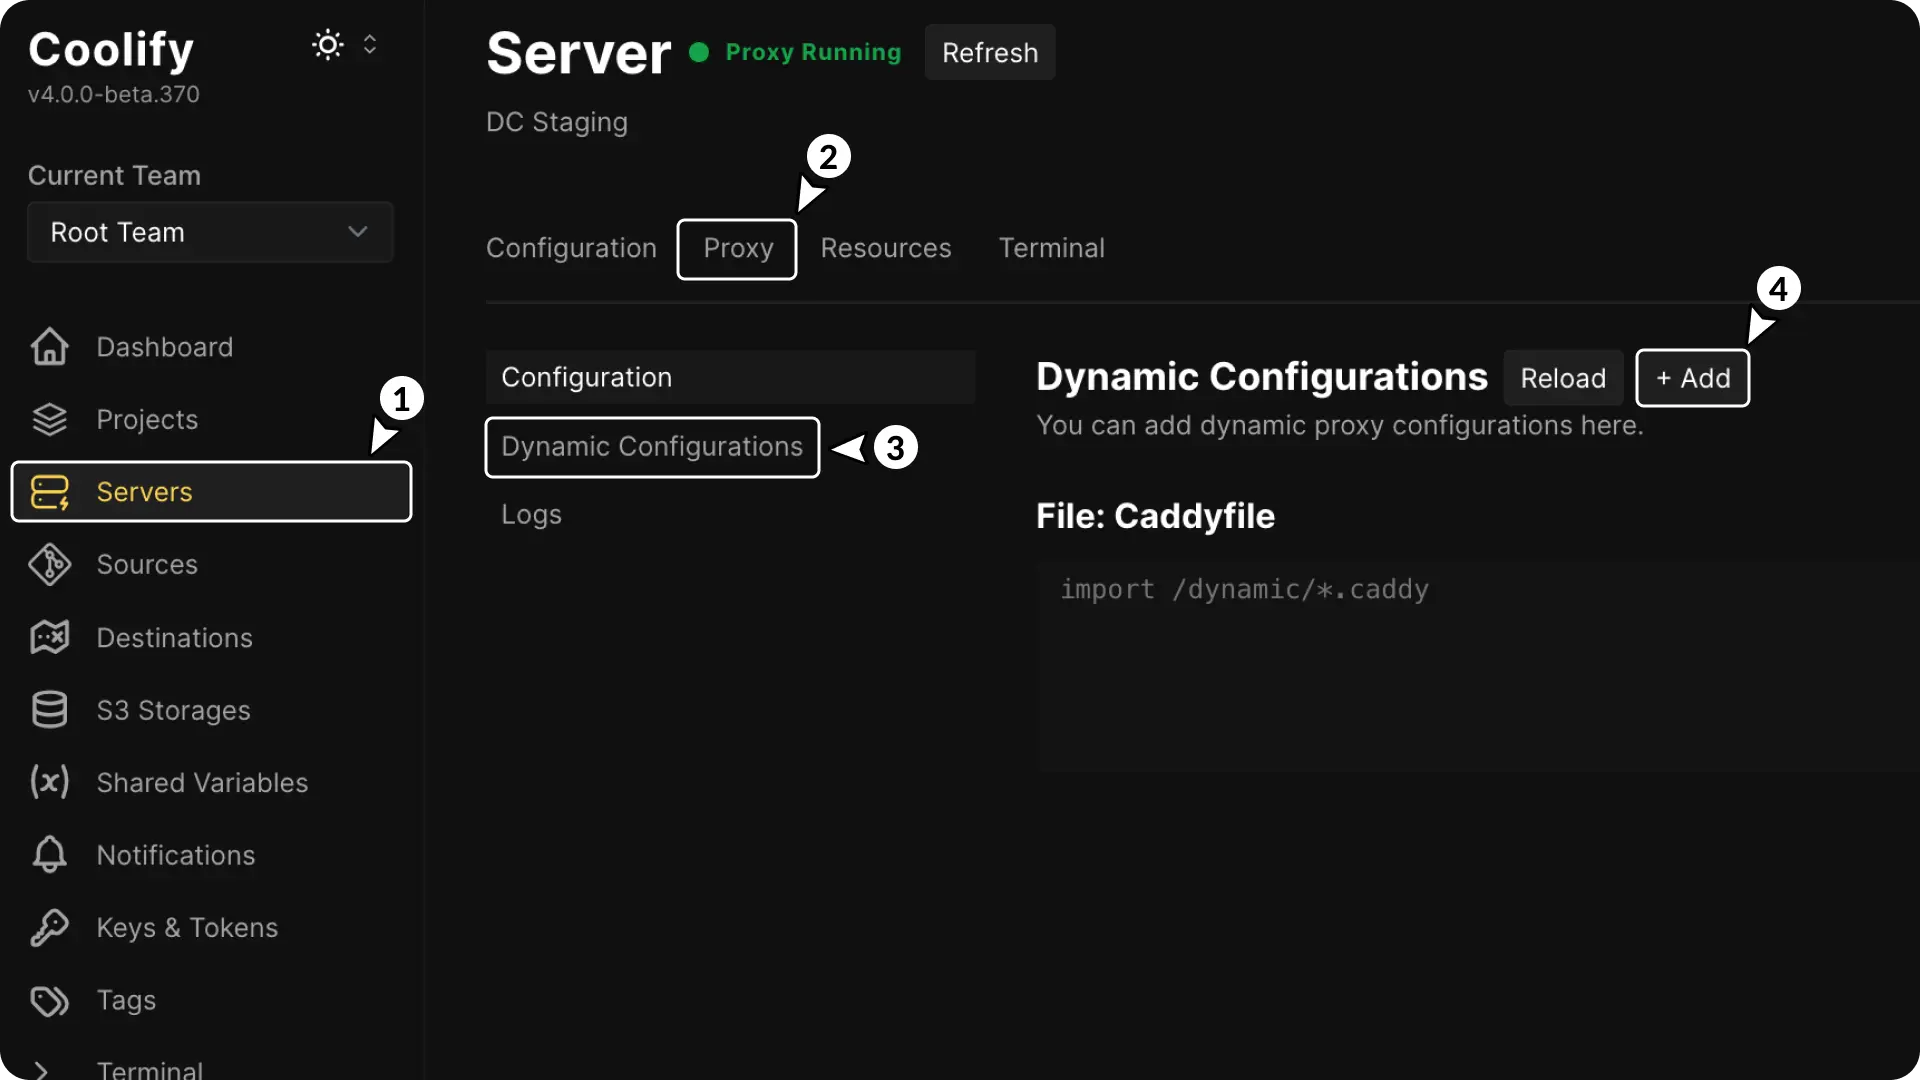
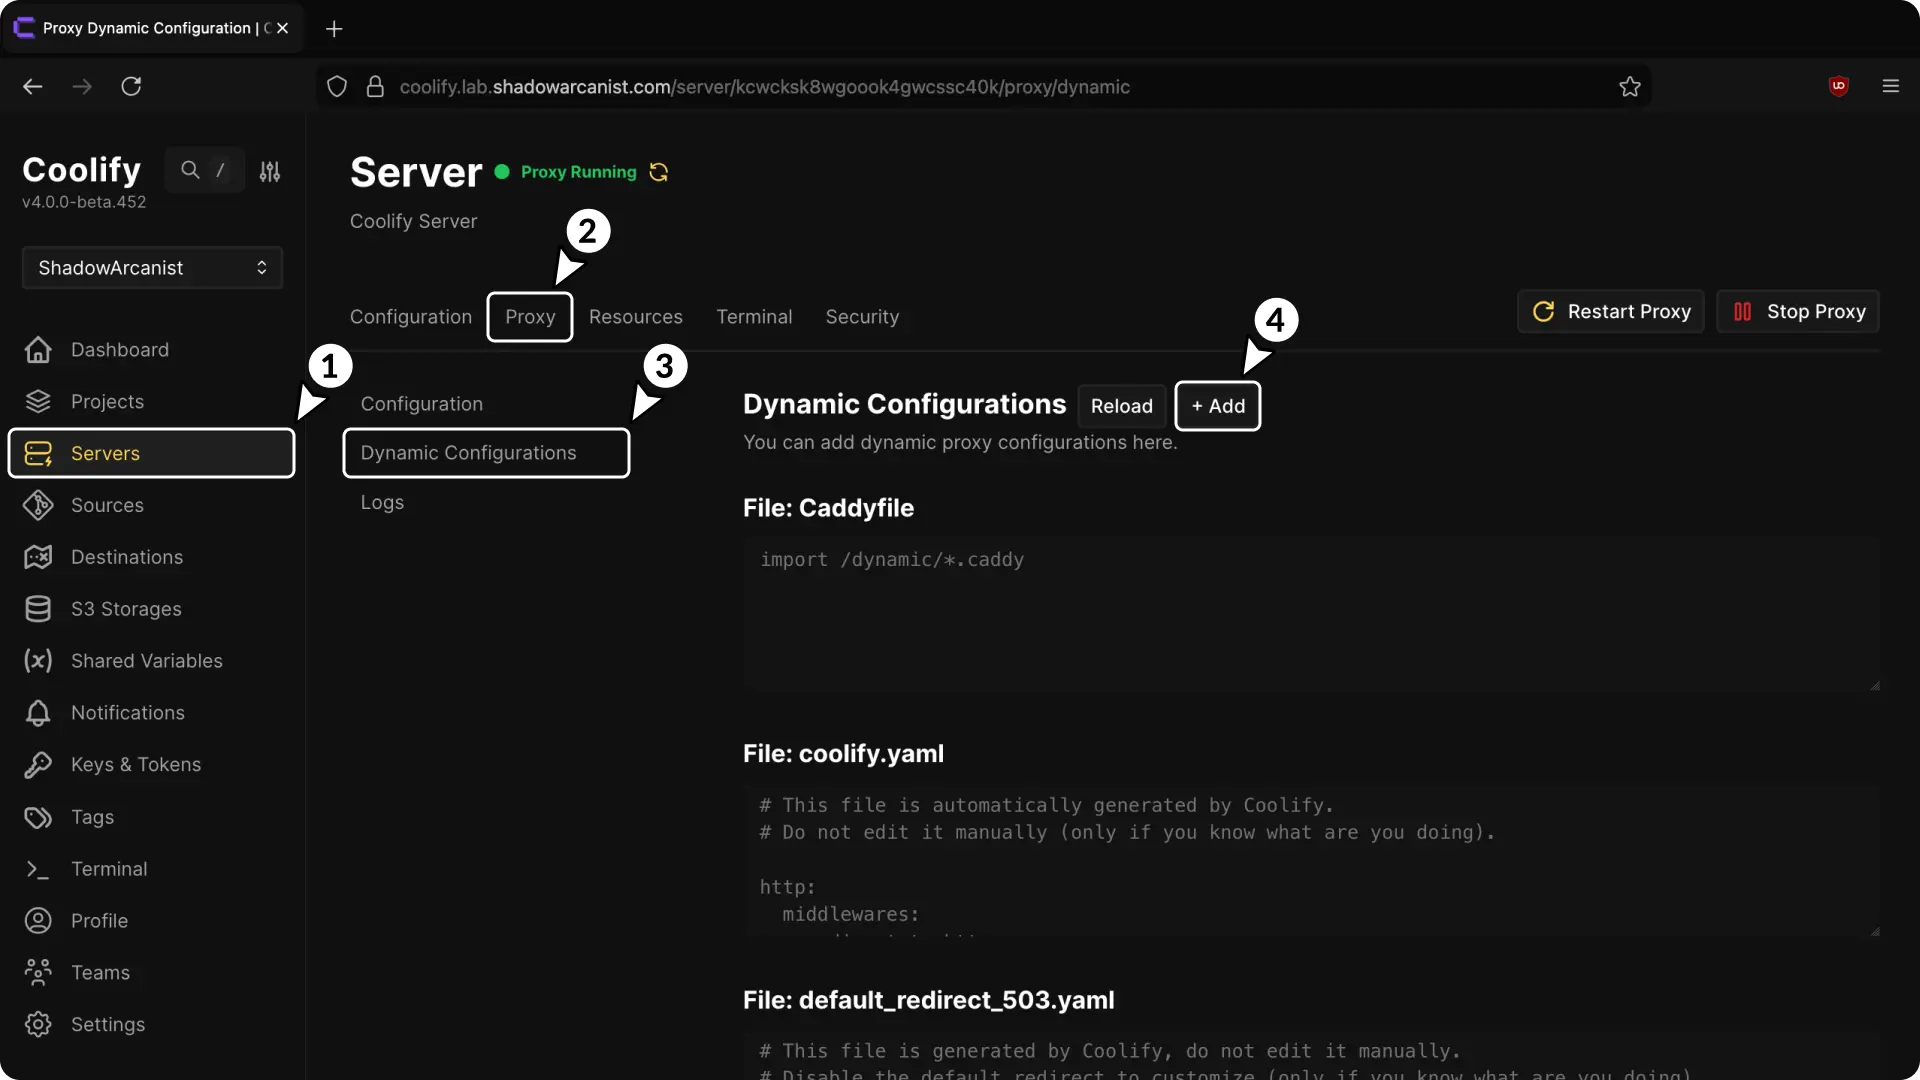
Added caddy setup guide for cloudflare ddos protection guide

diff --git a/docs/integrations/cloudflare/ddos-protection.md b/docs/integrations/cloudflare/ddos-protection.md
@@ -95,13 +95,12 @@ Once logged in, navigate to the Coolify proxy directory:
 $ cd /data/coolify/proxy
 ```
 
-Check if you have a **certs** folder:
-```sh
-$ ls
-> acme.json  docker-compose.yml  dynamic
-```
+Adding certificates slightly varies for Caddy and Traefik proxy so choose the correct one from the below section
 
-If there’s no **certs** folder, create it:
+:::tabs
+
+== Traefik
+Create the `certs` directory:
 ```sh
 $ mkdir certs
 ```
@@ -139,6 +138,48 @@ Do the same for the **shadowarcanist.key** file and paste the private key:
 $ nano shadowarcanist.key 
 ```
 Save and exit.
+
+== Caddy
+Create the `caddy/data/certs` directory:
+```sh
+$ mkdir -p caddy/data/certs
+```
+
+Verify it was created:
+```sh
+$ ls caddy/data
+> certs
+```
+
+Now, navigate into the **certs** directory:
+```sh
+$ cd caddy/data/certs
+```
+
+Create two new files for the certificate and private key:
+```sh
+$ touch shadowarcanist.cert shadowarcanist.key
+```
+
+Verify the files were created:
+```sh
+$ ls
+> shadowarcanist.cert shadowarcanist.key
+```
+
+Open the **shadowarcanist.cert** file and paste the certificate from the Cloudflare dashboard:
+```sh
+$ nano shadowarcanist.cert 
+```
+Save and exit after pasting the certificate.
+
+Do the same for the **shadowarcanist.key** file and paste the private key:
+```sh
+$ nano shadowarcanist.key 
+```
+Save and exit.
+
+:::
 
 Now the origin certificate is installed on your server.
 
@@ -183,15 +224,6 @@ Finally, enable HTTP to HTTPS redirects:
 
 
 ## 4. Configure Coolify proxy to Use the Origin Certificate
-
-::: warning
-In this step, we're focusing on configuring Traefik (Coolify's proxy) to use the Origin Certificate. 
-
-If you're using Caddy instead, please refer to their [official documentation ↗](https://caddyserver.com/docs/caddyfile/directives/tls).
-:::
-
-Now, in your Coolify dashboard:
-
 <ZoomableImage src="/docs/images/integrations/cloudflare/ddos-protection/8.webp" />
 
 1. Go to the **Server** section in the sidebar.
@@ -201,9 +233,15 @@ Now, in your Coolify dashboard:
 
 You will now be prompted to enter the Dynamic Configuration.
 
+Adding Dynamic Configuration slightly varies for Caddy and Traefik proxy so choose the correct one from the below section
+
+:::tabs
+
+== Traefik
+
 <ZoomableImage src="/docs/images/integrations/cloudflare/ddos-protection/9.webp" />
 
-1. Choose a name for your configuration.
+1. Choose a name for your configuration (must end with `.yaml`).
 2. Enter the following details in the configuration field:
 ```sh
 tls:
@@ -213,8 +251,9 @@ tls:
       keyFile: /traefik/certs/shadowarcanist.key
 ```
 
-:::details Adding Multiple Certificates (click to view)
- 
+3. Save the configuration
+---
+If you want to add multiple certificates and keys, you can do it like this:
 ```sh
 tls:
   certificates:
@@ -228,9 +267,40 @@ tls:
       certFile: /traefik/certs/name3.cert
       keyFile: /traefik/certs/name3.key
 ```
-:::
+
+== Caddy
+<ZoomableImage src="/docs/images/integrations/cloudflare/ddos-protection/10.webp" />
+
+1. Choose a name for your configuration (must end with `.caddy`).
+2. Enter the following details in the configuration field:
+```sh
+*.shadowarcanist.com, shadowarcanist.com {
+    tls /data/certs/shadowarcanist.cert /data/certs/shadowarcanist.key
+}
+```
+
+> Note: The wildcard `*.shadowarcanist.com` provides coverage for all subdomains, exclude it if you’re only securing a single domain (i.e, `shadowarcanist.com`).
 
 3. Save the configuration
+
+---
+
+If you want to add multiple certificates and keys, you can do it like this:
+```sh
+*.shadowarcanist.com, shadowarcanist.com {
+    tls /data/certs/shadowarcanist.cert /data/certs/shadowarcanist.key
+}
+
+*.name2.com, name2.com {
+    tls /data/certs/name2.cert /data/certs/name2.key
+}
+
+*.name3.com, name3.com {
+    tls /data/certs/name3.cert /data/certs/name3.key
+}
+```
+:::
+
 
 From now on, Coolify will use the origin certificate for requests matching the hostname.
 
